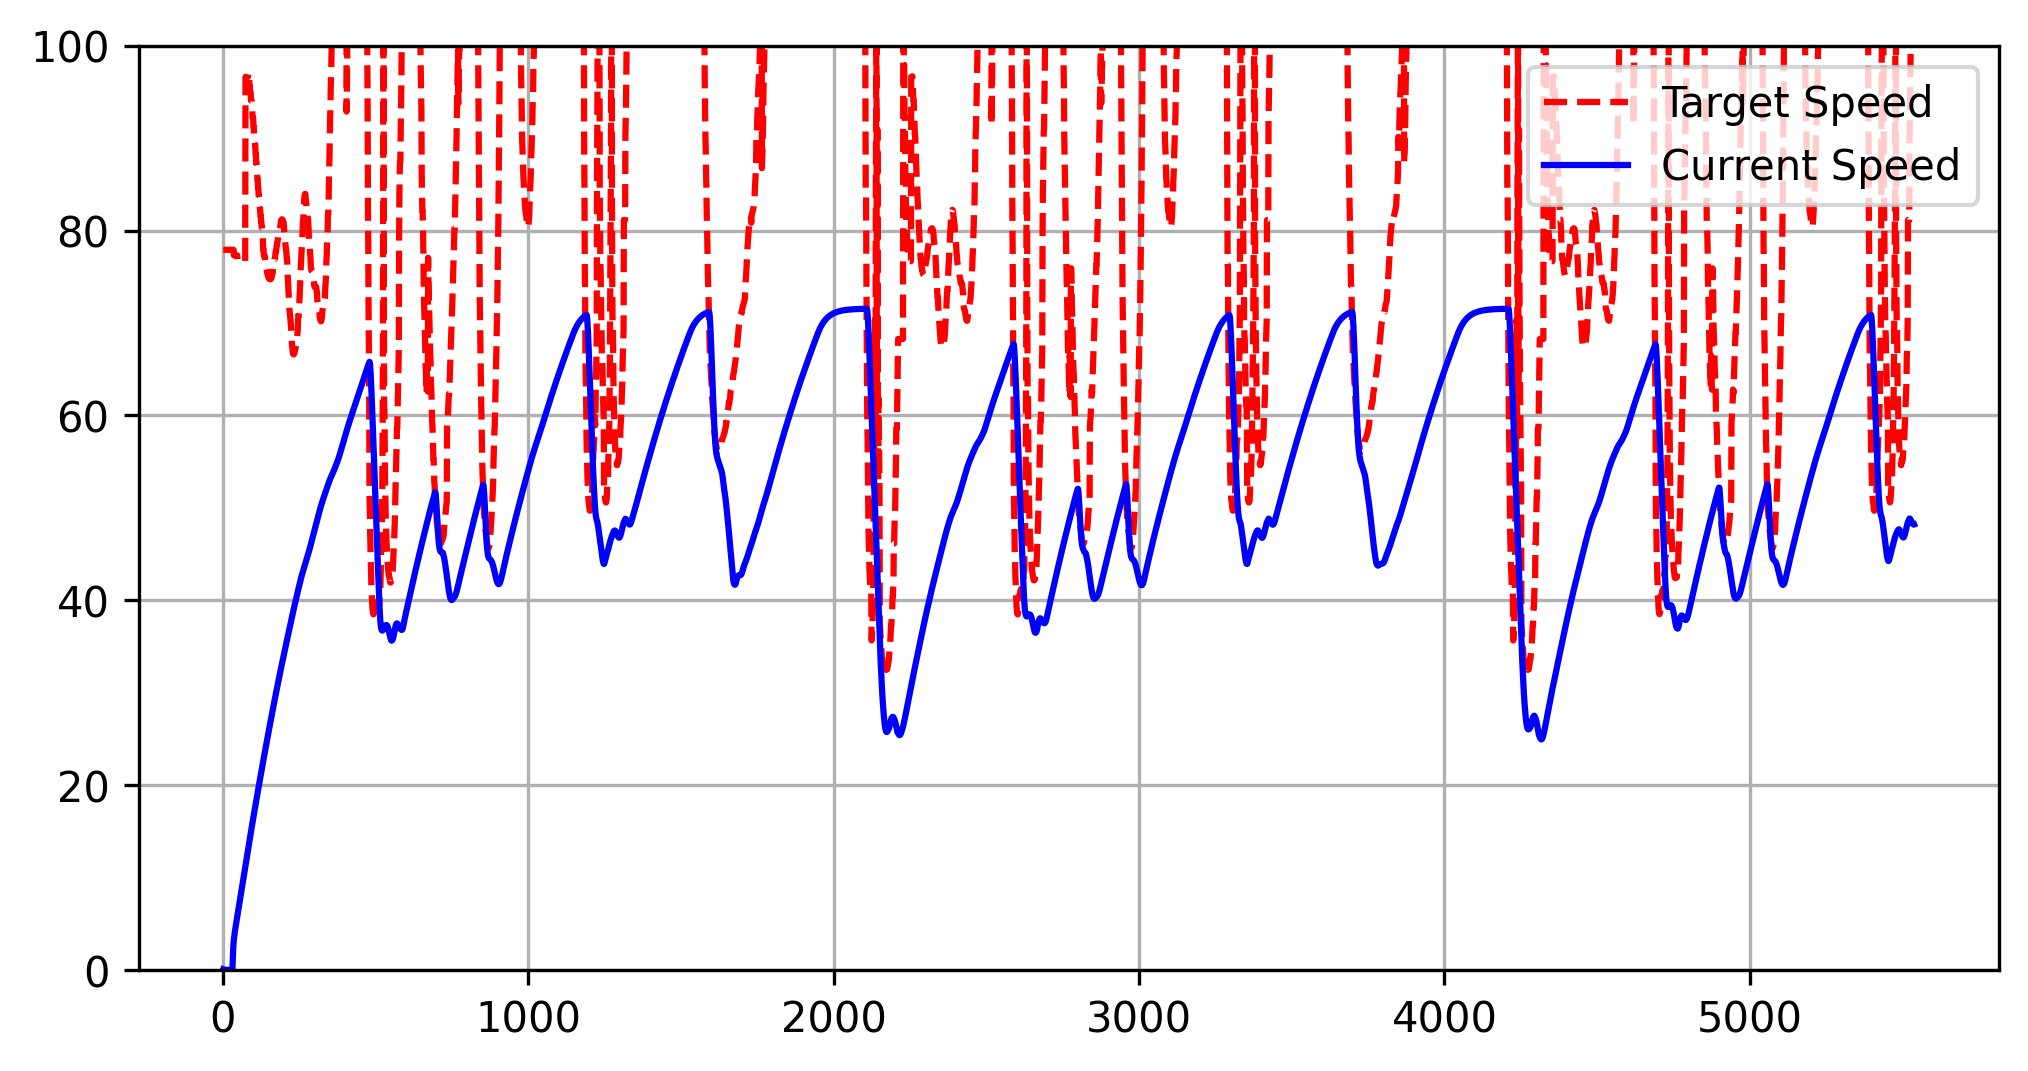
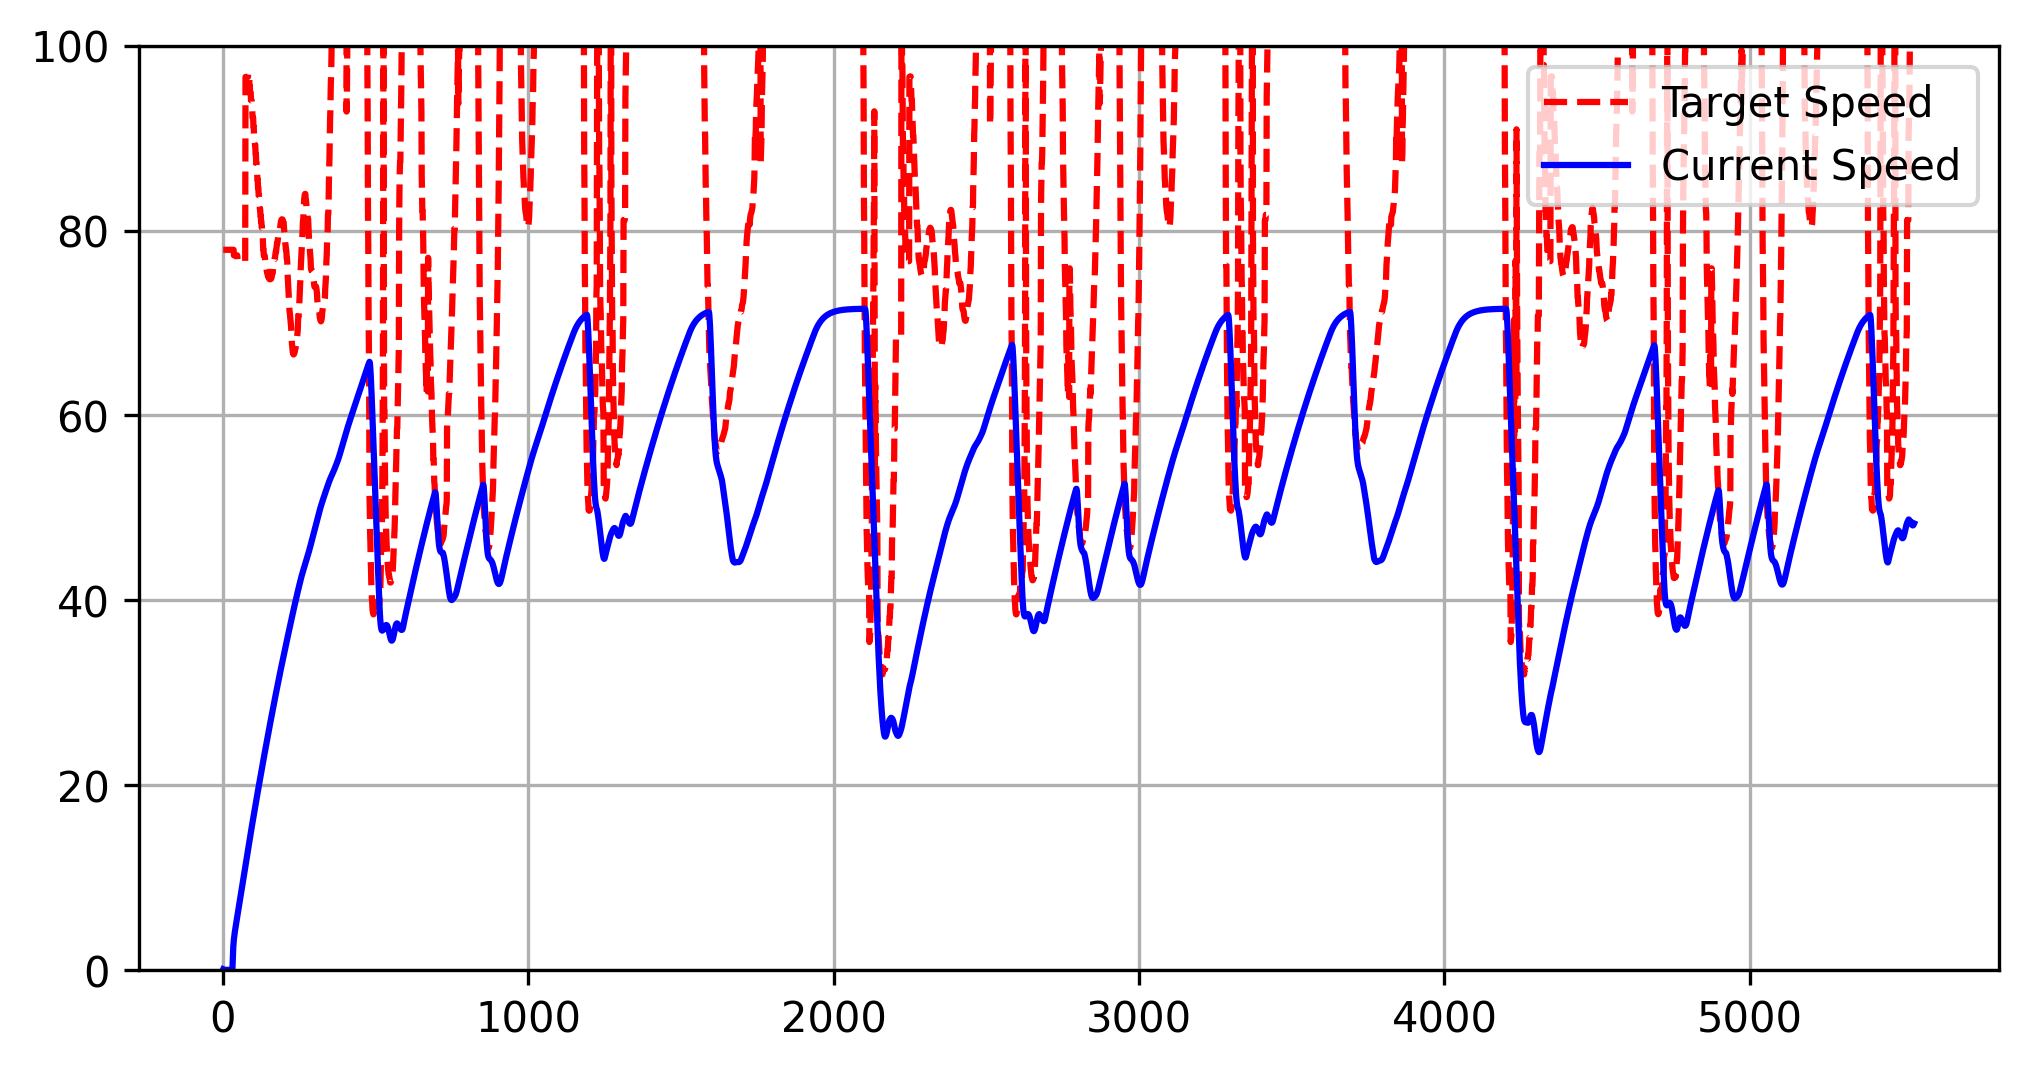
tune 840

diff --git a/competition_code/util/Tuner.py b/competition_code/util/Tuner.py
@@ -36,7 +36,7 @@ class Tuner:
         if (490 <= waypoint < 505): return steer * 0.75
         if (510 <= waypoint <= 520): return max(steer * 2.0, 0)
         if (1855 <= waypoint <= 1900): return max(steer * 3.0, 0)
-        if (830 <= waypoint <= 845): return max(steer * 1.0, 0)
+        if (830 <= waypoint <= 845): return max(steer * 0.9, 0)
         if (845 < waypoint < 860): return max(steer * 1.5, 0)
         if (860 <= waypoint <= 880): return steer * 0.4
         if (1425 <= waypoint <= 1450): return min(steer, 0.01)
